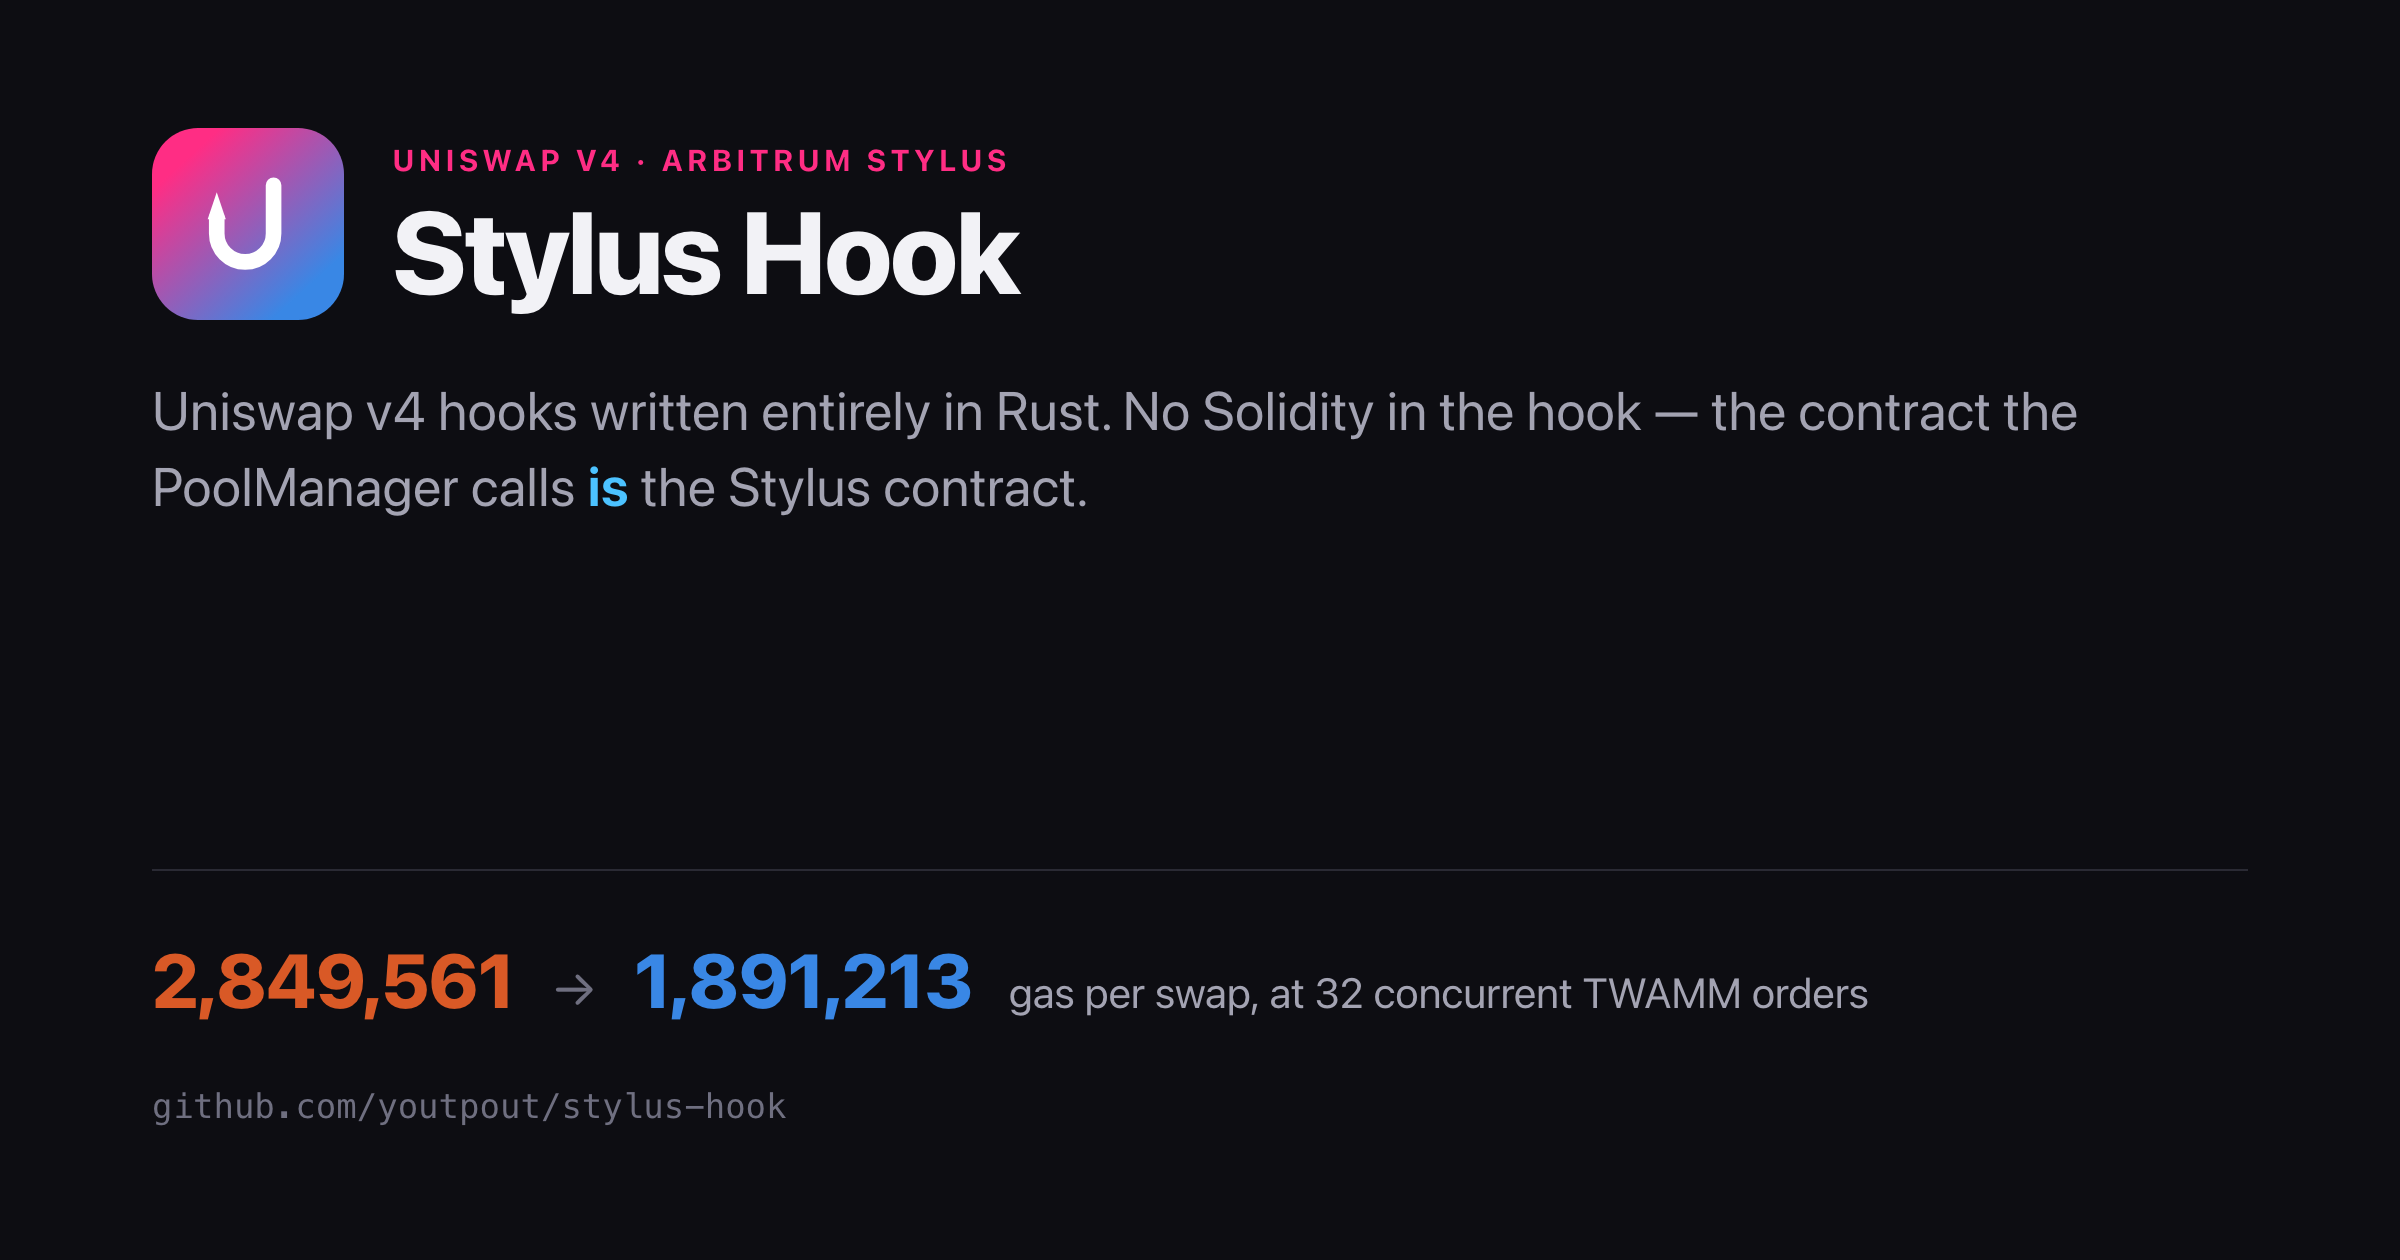
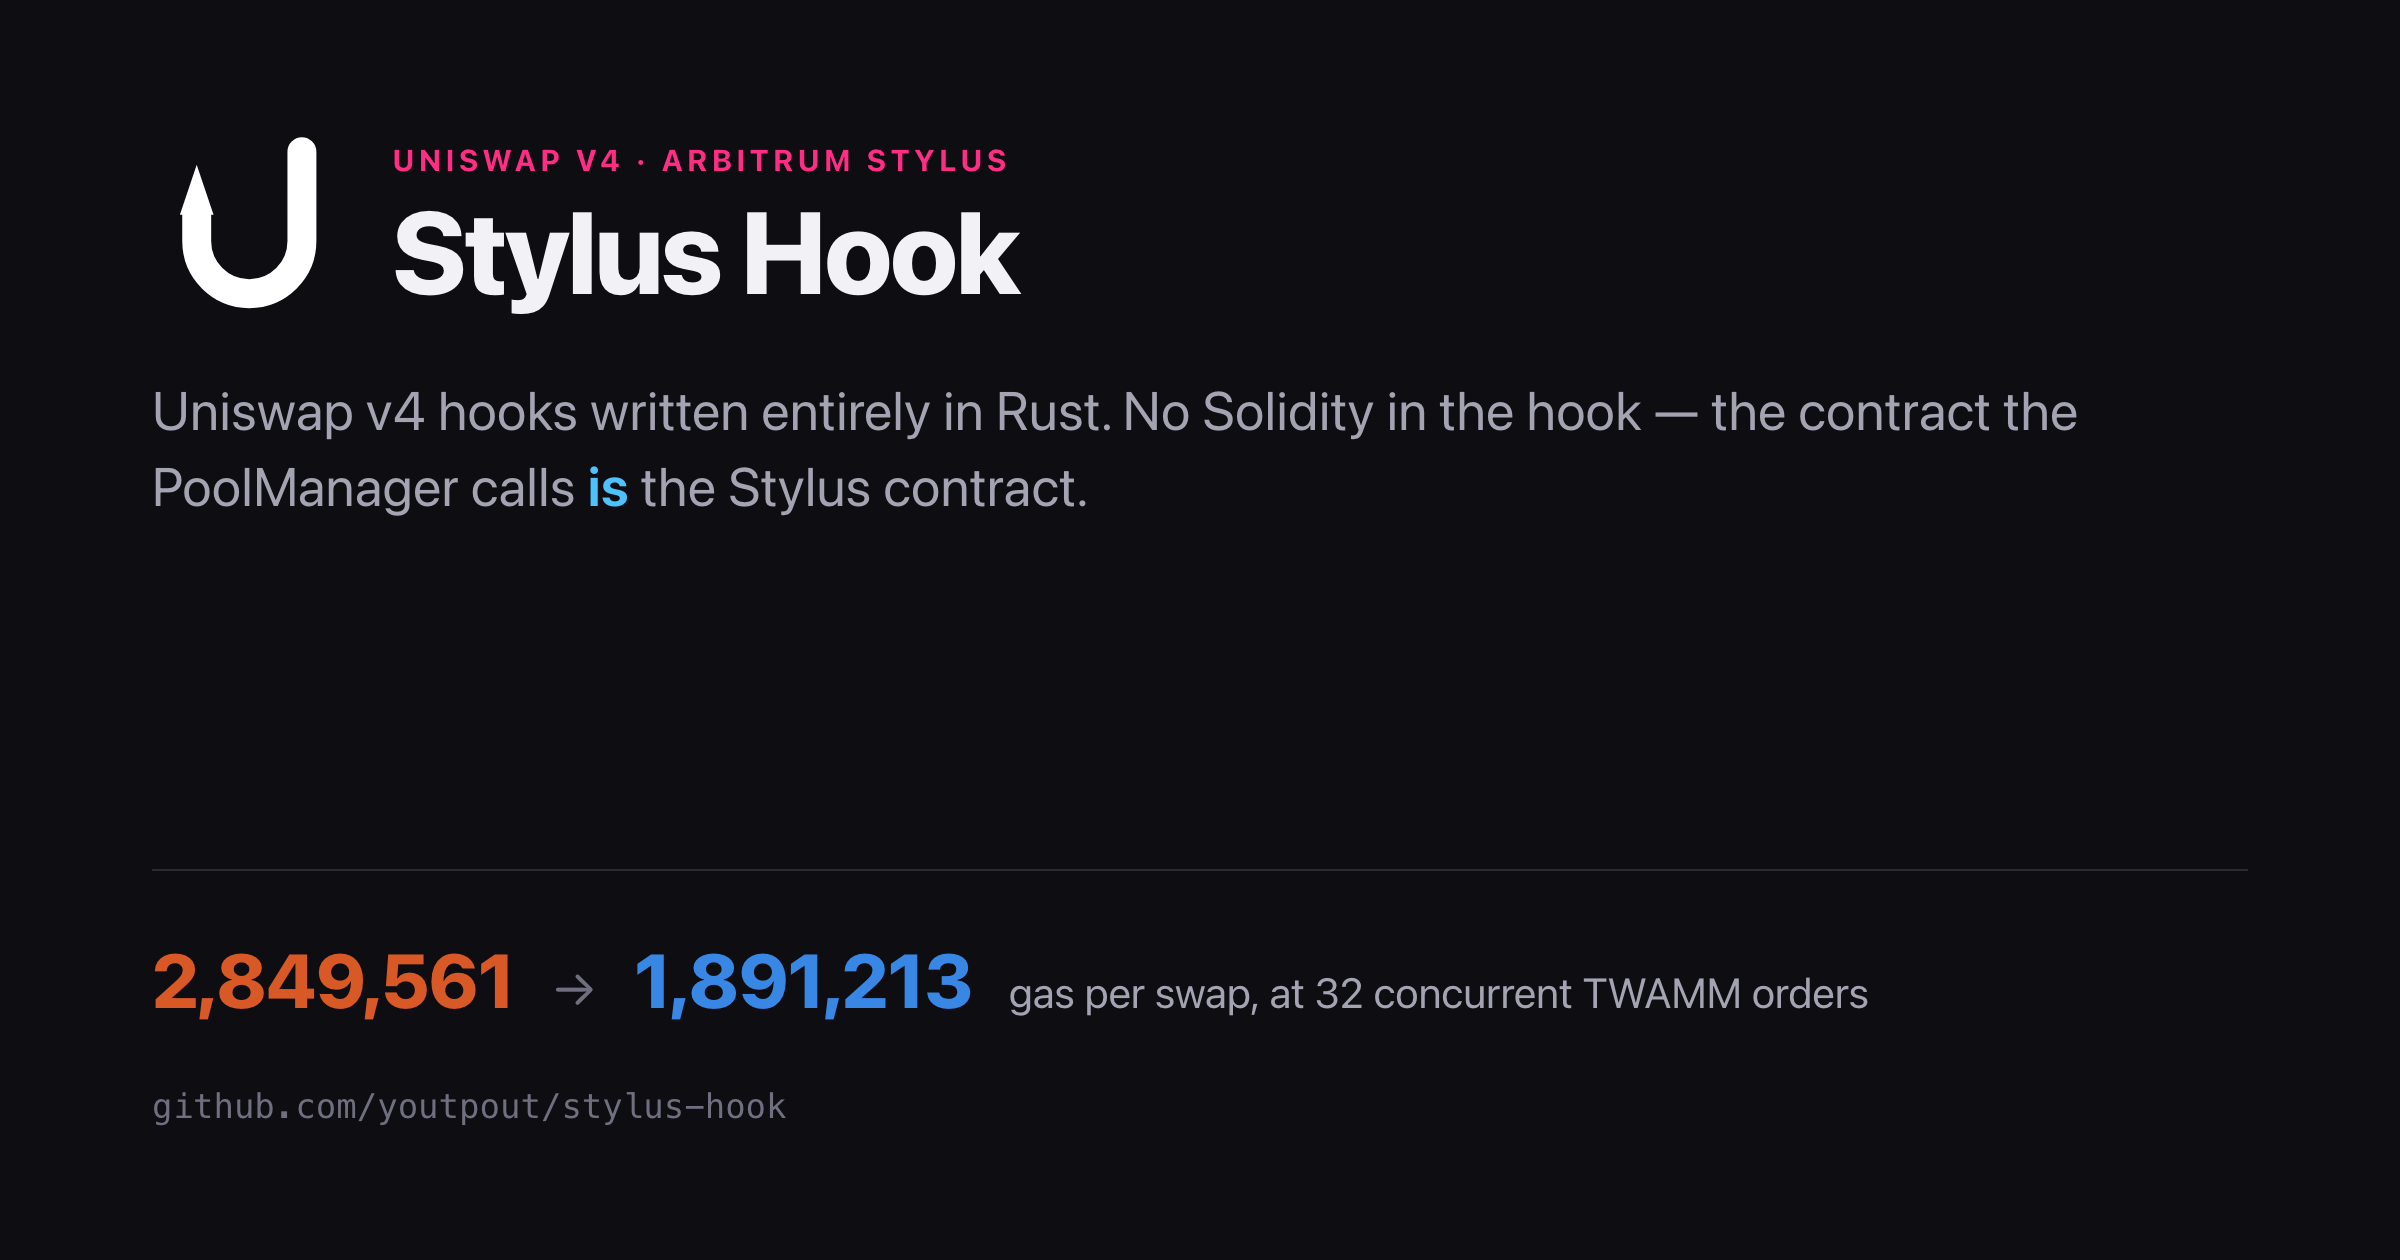
media: drop the gradient badge, keep the white hook on black
The rounded square and its gradient were carrying the identity instead of the
mark. Stripped to the hook alone in white on #0d0d12, which is what actually reads
at every size, and the spear point keeps it from being taken for a letter.

The cover uses the same mark, so the two agree.

Changed region(s): [[0.0625, 0.0929, 0.1562, 0.2786]]

diff --git a/scripts/images/cards.html b/scripts/images/cards.html
@@ -32,14 +32,14 @@ svg{display:block}
 .big{font-size:52px;font-weight:800;letter-spacing:-.03em;margin-bottom:6px}</style>
 </head>
 <body>
-<section class="card dark" style="width:1024px;height:1024px"><div style="width:1024px;height:1024px;display:flex;align-items:center;justify-content:center"><div style="width:880px;height:880px"><svg viewBox="0 0 100 100"><defs><linearGradient id="lg_logo" x1="18" y1="16" x2="80" y2="84" gradientUnits="userSpaceOnUse"><stop offset="0" stop-color="#ff2d84"/><stop offset="1" stop-color="#3987e5"/></linearGradient></defs><rect x="0" y="0" width="100" height="100" rx="24" fill="url(#lg_logo)"/><g transform="translate(50 52) scale(0.74) translate(-46 -52)"><path d="M64 22 L64 56 A20 20 0 1 1 24 56 L24 45" fill="none" stroke="#ffffff" stroke-width="11" stroke-linecap="round" stroke-linejoin="round"/><path d="M17.6 46 L30.4 46 L24 27 Z" fill="#ffffff"/></g></svg></div></div></section>
-<section class="card dark" style="width:256px;height:256px"><div style="width:256px;height:256px;display:flex;align-items:center;justify-content:center"><div style="width:220px;height:220px"><svg viewBox="0 0 100 100"><defs><linearGradient id="lg_logo_256" x1="18" y1="16" x2="80" y2="84" gradientUnits="userSpaceOnUse"><stop offset="0" stop-color="#ff2d84"/><stop offset="1" stop-color="#3987e5"/></linearGradient></defs><rect x="0" y="0" width="100" height="100" rx="24" fill="url(#lg_logo_256)"/><g transform="translate(50 52) scale(0.74) translate(-46 -52)"><path d="M64 22 L64 56 A20 20 0 1 1 24 56 L24 45" fill="none" stroke="#ffffff" stroke-width="11" stroke-linecap="round" stroke-linejoin="round"/><path d="M17.6 46 L30.4 46 L24 27 Z" fill="#ffffff"/></g></svg></div></div></section>
-<section class="card dark" style="width:64px;height:64px"><div style="width:64px;height:64px;display:flex;align-items:center;justify-content:center"><div style="width:56px;height:56px"><svg viewBox="0 0 100 100"><defs><linearGradient id="lg_logo_64" x1="18" y1="16" x2="80" y2="84" gradientUnits="userSpaceOnUse"><stop offset="0" stop-color="#ff2d84"/><stop offset="1" stop-color="#3987e5"/></linearGradient></defs><rect x="0" y="0" width="100" height="100" rx="24" fill="url(#lg_logo_64)"/><g transform="translate(50 52) scale(0.74) translate(-46 -52)"><path d="M64 22 L64 56 A20 20 0 1 1 24 56 L24 45" fill="none" stroke="#ffffff" stroke-width="11" stroke-linecap="round" stroke-linejoin="round"/><path d="M17.6 46 L30.4 46 L24 27 Z" fill="#ffffff"/></g></svg></div></div></section>
+<section class="card dark" style="width:1024px;height:1024px"><div style="width:1024px;height:1024px;display:flex;align-items:center;justify-content:center"><div style="width:880px;height:880px"><svg viewBox="7 13 73 73"><path d="M64 22 L64 56 A20 20 0 1 1 24 56 L24 45" fill="none" stroke="#ffffff" stroke-width="11" stroke-linecap="round" stroke-linejoin="round"/><path d="M17.6 46 L30.4 46 L24 27 Z" fill="#ffffff"/></svg></div></div></section>
+<section class="card dark" style="width:256px;height:256px"><div style="width:256px;height:256px;display:flex;align-items:center;justify-content:center"><div style="width:220px;height:220px"><svg viewBox="7 13 73 73"><path d="M64 22 L64 56 A20 20 0 1 1 24 56 L24 45" fill="none" stroke="#ffffff" stroke-width="11" stroke-linecap="round" stroke-linejoin="round"/><path d="M17.6 46 L30.4 46 L24 27 Z" fill="#ffffff"/></svg></div></div></section>
+<section class="card dark" style="width:64px;height:64px"><div style="width:64px;height:64px;display:flex;align-items:center;justify-content:center"><div style="width:56px;height:56px"><svg viewBox="7 13 73 73"><path d="M64 22 L64 56 A20 20 0 1 1 24 56 L24 45" fill="none" stroke="#ffffff" stroke-width="11" stroke-linecap="round" stroke-linejoin="round"/><path d="M17.6 46 L30.4 46 L24 27 Z" fill="#ffffff"/></svg></div></div></section>
 <section class="card dark" style="width:1200px;height:630px">
  <div class="pad" style="width:1200px;height:630px;display:flex;flex-direction:column;justify-content:space-between">
    <div>
      <div style="display:flex;align-items:center;gap:24px">
-       <div style="width:96px;height:96px;flex:none"><svg viewBox="0 0 100 100"><defs><linearGradient id="lg_cover" x1="18" y1="16" x2="80" y2="84" gradientUnits="userSpaceOnUse"><stop offset="0" stop-color="#ff2d84"/><stop offset="1" stop-color="#3987e5"/></linearGradient></defs><rect x="0" y="0" width="100" height="100" rx="24" fill="url(#lg_cover)"/><g transform="translate(50 52) scale(0.74) translate(-46 -52)"><path d="M64 22 L64 56 A20 20 0 1 1 24 56 L24 45" fill="none" stroke="#ffffff" stroke-width="11" stroke-linecap="round" stroke-linejoin="round"/><path d="M17.6 46 L30.4 46 L24 27 Z" fill="#ffffff"/></g></svg></div>
+       <div style="width:96px;height:96px;flex:none"><svg viewBox="7 13 73 73"><path d="M64 22 L64 56 A20 20 0 1 1 24 56 L24 45" fill="none" stroke="#ffffff" stroke-width="11" stroke-linecap="round" stroke-linejoin="round"/><path d="M17.6 46 L30.4 46 L24 27 Z" fill="#ffffff"/></svg></div>
        <div><div class="kick">Uniswap v4 · Arbitrum Stylus</div>
        <h1 style="font-size:58px;margin-top:4px">Stylus Hook</h1></div>
      </div>
